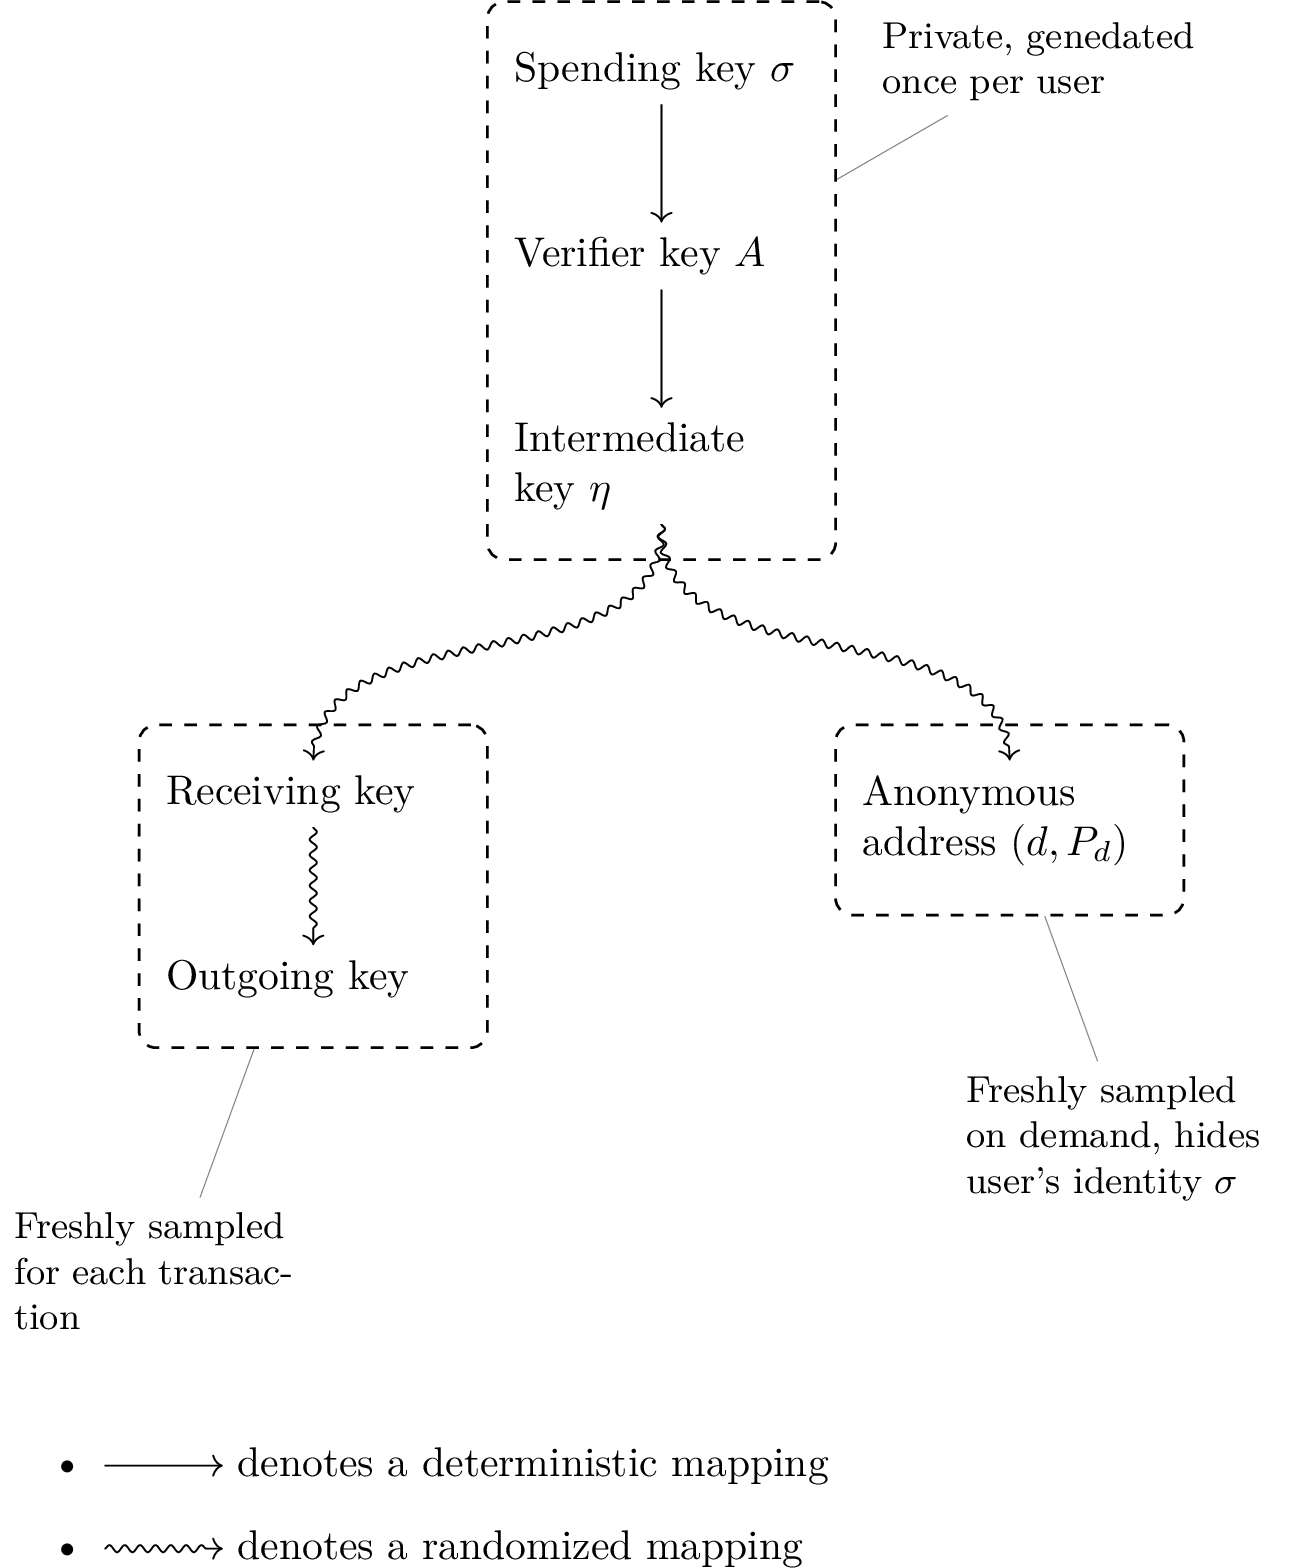
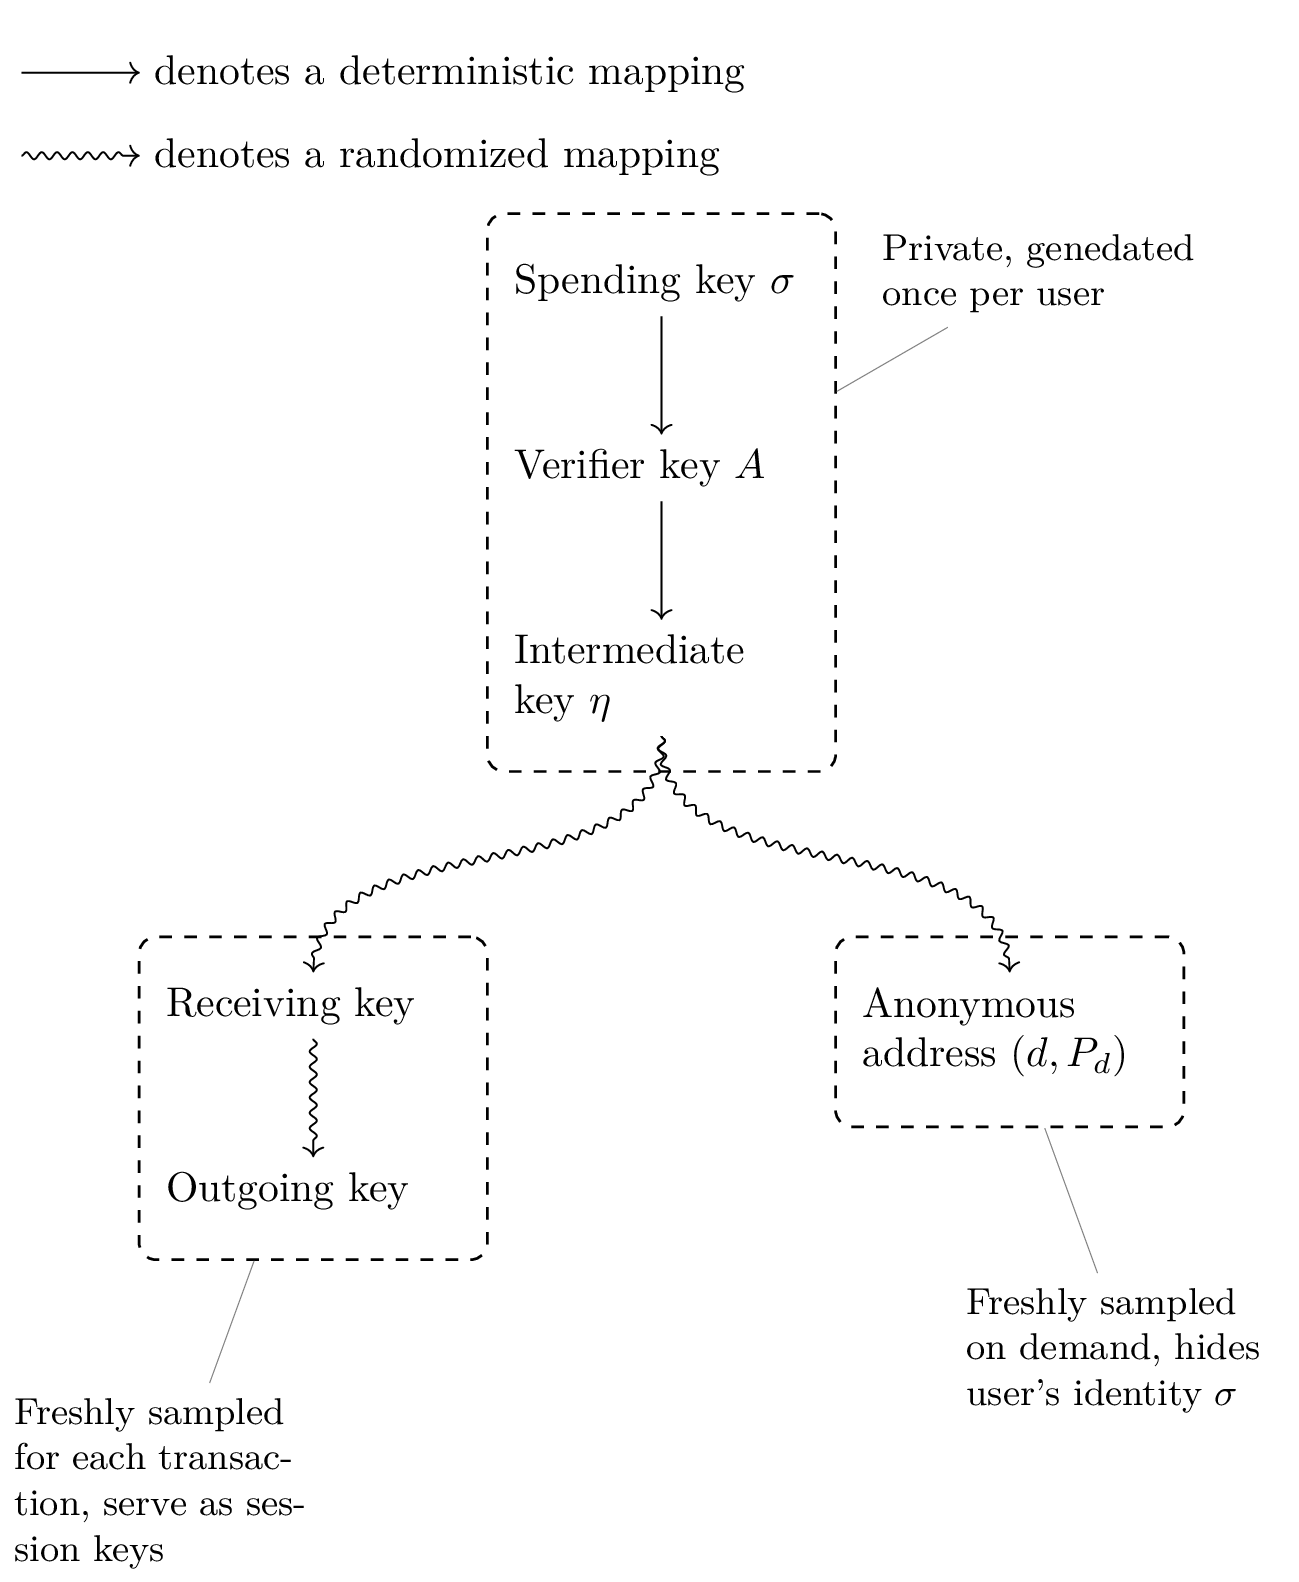
update

diff --git a/docs/new-docs/diagrams/zeropool-keys/main.tex b/docs/new-docs/diagrams/zeropool-keys/main.tex
@@ -29,6 +29,12 @@
   }
 \begin{document}
 \begin{varwidth}{25cm}
+  \noindent
+    \begin{description}
+    \item[] \tikz \draw[->] (0,0) to (1,0); denotes a deterministic mapping
+    \item[] \tikz \draw[->,snake] (0,0) to (1,0); denotes a randomized mapping
+    \end{description}
+  \noindent
   \begin{tikzpicture}
     \node[keyNode] (spending) {Spending key $\sigma$};
     \node[keyNode,below=of spending] (verifier) {Verifier key $A$};
@@ -45,15 +51,9 @@
        \draw[->,snake,out=-90,in=90] (interm) to (address);
 
     \node[fit=(spending)(interm),pinnedBox={30}{Private, genedated once per user}] {};
-    \node[fit=(recieving)(outgoing),pinnedBox={-110}{Freshly sampled for each transaction}] {};
+    \node[fit=(recieving)(outgoing),pinnedBox={-110}{Freshly sampled for each transaction, serve as session keys}] {};
     \node[fit=(address),pinnedBox={-70}{Freshly sampled on demand, hides user's identity $\sigma$}] {};
   \end{tikzpicture}
-
-  \noindent
-  \begin{itemize}
-  \item \tikz \draw[->] (0,0) to (1,0); denotes a deterministic mapping
-  \item \tikz \draw[->,snake] (0,0) to (1,0); denotes a randomized mapping
-  \end{itemize}
   % \begin{minipage}{15cm}
   % \end{minipage}
 \end{varwidth}

diff --git a/docs/new-docs/03-transaction.md b/docs/new-docs/03-transaction.md
@@ -23,7 +23,41 @@ instantiations of the same account, and transaction as modifying this account
 
 ## Keys
 
+The spending key $\sigma$ is the main key that controls the account and from
+which all the other keys — private and public — are derived. The following
+diagram shows the keys ZeroPool uses and the dependencies between them. We
+use straight arrows for deterministic mappings (which always produce the same
+value) and snake-shaped arrows for randomized mappings (that can be run with
+the same input many times and produce different random output each time).
+
 ![ZeroPool Keys Diagram](diagrams/zeropool-keys.png)
+
+ - Spending key $\sigma$ is used to sign each transaction, which is then
+   verified using verifier key $A$.
+
+   The $\sigma$ is necessary for spending ZeroPool tokens. It's supposed to
+   never leave user's device, and is only used to sign transactions locally.
+
+ - Intermediate key $\eta$ identifies user's account in a transaction. User
+   uses $\eta$ to create transactions, and later to prove the transaction
+   correctness using a zkSNARK proof. In zkSNARK, $\eta$ is treated as a secret
+   input so proof of transaction's correctness does not reveal $\eta$.
+
+   Compromising $\eta$ will deanonymize the user, but won't allow the tokens to
+   be stolen (assuming that $\sigma$ is not compromised).
+
+ - The diversified address $(d, P_d)$ is used as anonymous address that a user
+   gives to others in order to receive tokens (through notes) from them. It
+   does not reveal the user's $\eta$, but allows the user who presents the
+   correct $\eta$ to claim the tokens sent to this diversified address.
+
+   A user can generate as many diversified addresses as she wants from the
+   same $\eta$. If two different senders send tokens to the same diversified
+   address, they won't learn anything about each other's transations.
+
+ - The receiving and outgoing keys are picked fresh for each transaction and
+   used by the receivers of notes to decrypt notes posted on some public medium
+   (**TODO: Which one?**).
 
 ## Sequence of Accounts and Notes
 
